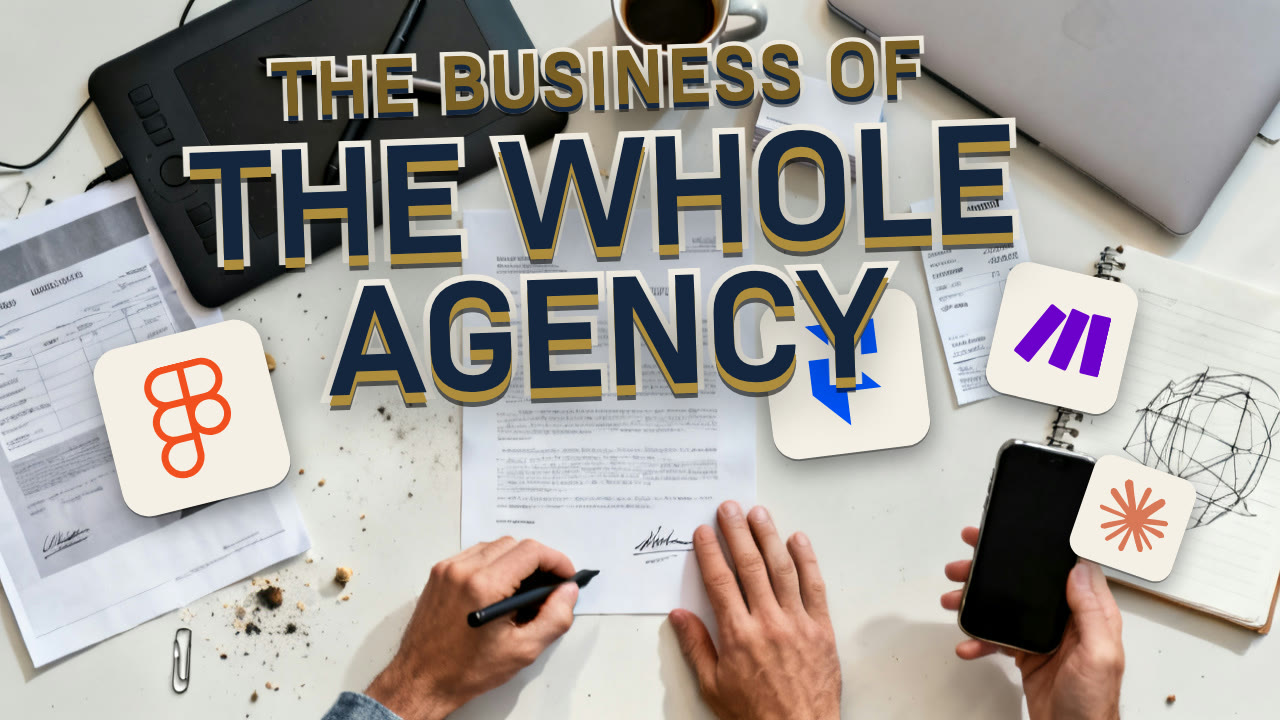
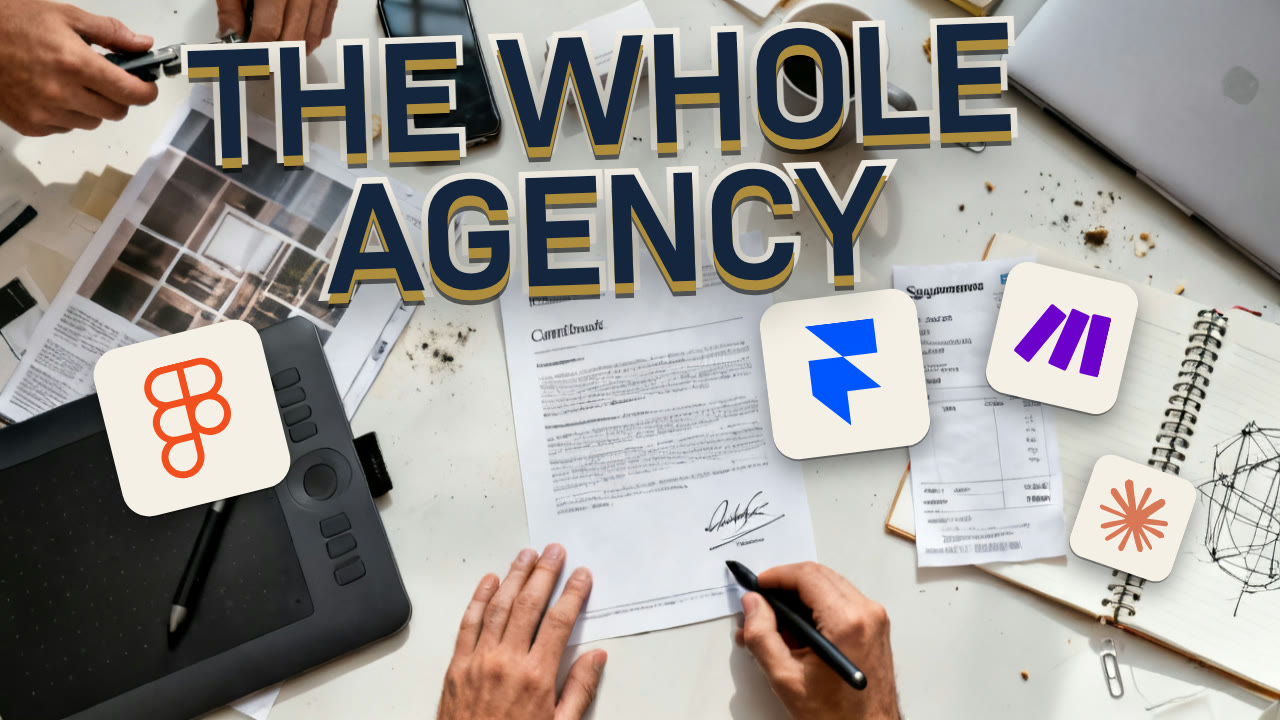
generate_scene: stop shooting every flat-lay from the same camera
Manav: "why do all of them have the same background image and angle?" Because
CONSTRAINTS_FLATLAY hardcoded one shot -- straight down, two hands from the
bottom edge, phone in the left -- so nine episodes came back as the same
photograph with the props swapped. Similar design, identical image, which is the
opposite of the ask.

Six framings now, and the invariants stay fixed in the tail: dense to every edge,
a human in frame, bare patches left for the marks. What varies is the camera
(straight down, high three-quarter, rotated diagonal, low and shallow, cropped
tight with no table edge, off-axis), which hands enter and from where, and the
crop. Picked with crc32 of the slug so an episode keeps its shot across re-runs
and --framing overrides. A character sum was tried first and clustered three of
nine onto one framing, which is the bug this exists to fix.

Also removed a filler of my own. The flatlay props defaulted `overline` to "THE
BUSINESS OF" whenever the spec produced no label, which put a constant on five of
nine thumbnails. Cleared -- a single tier is a legitimate composition, the photo
variant runs on one, and invented variety is worse than an absent tier. The four
real overlines the spec did write are kept: THE WHOLE STACK, STILL BY HAND, STILL
A BUSINESS, SO FAR.

Nine re-rendered, 9/9 pass the checker, review copies refreshed.

ON THE LOST GROUND, since it is a worked example of the gap flagged in
[…]

diff --git a/studio/scripts/originate/generate_scene.py b/studio/scripts/originate/generate_scene.py
@@ -44,6 +44,7 @@ import sys
 import tempfile
 import urllib.error
 import urllib.request
+import zlib
 from pathlib import Path
 
 ROOT = Path(__file__).resolve().parents[2]          # studio/
@@ -186,20 +187,61 @@ CONSTRAINTS_SCENE = (
 # Mrs Fields, Famous Amos and a Crumbl box; ours are the episode's actual stack,
 # composited by fetch_logos.py rather than generated, since diffusion garbles
 # lettering. The scene must therefore leave surface FOR them.
-CONSTRAINTS_FLATLAY = (
-    " Shot straight down from directly overhead, flat-lay. TWO HANDS enter from "
-    "the bottom edge of the frame, one holding a phone upright with a blank dark "
-    "screen, the other reaching in mid-action toward the objects. The surface is "
-    "crowded to every edge and objects are cut off by all four frame edges, "
-    "rotated at loose angles, overlapping each other, casually placed rather "
-    "than arranged. Leave two or three empty patches of bare surface among the "
-    "objects, each roughly a hand's width. Real mess: crumbs, dust, a stray "
-    "paper clip, marks on the surface. Every surface is bare and unlabelled — no "
-    "signage, no printed text, no packaging copy, no screens showing anything. "
-    "Bright even overhead daylight, clean true-to-life colour, strong material "
-    "texture. Photographed, not rendered: no studio sweep, no seamless backdrop, "
-    "no gradient background, nothing centred or symmetrical."
+# The framing was hardcoded to one shot -- straight down, two hands from the
+# bottom edge, phone in the left -- so every flat-lay in the set came back as the
+# same photograph with the props swapped. Similar design, identical image.
+#
+# These are the variations that all still satisfy the invariants: dense to every
+# edge, a human in frame, bare patches left for the marks. What varies is the
+# camera, which hands enter and from where, and how tight the crop is. Chosen
+# deterministically from the slug so an episode keeps its framing across
+# re-runs, and overridable with --framing.
+FLATLAY_FRAMINGS = [
+    "Shot straight down from directly overhead. Two hands enter from the bottom "
+    "edge, one holding a phone upright with a blank dark screen, the other "
+    "reaching in mid-action.",
+
+    "Shot from a high three-quarter angle looking down and across the surface, "
+    "the far edge of the table and a slice of the room visible along the top of "
+    "the frame. One hand enters from the right edge mid-task.",
+
+    "Shot straight down but rotated, so the surface and everything on it runs "
+    "diagonally across the frame. One forearm crosses in from the lower-left "
+    "corner; the other hand steadies an object near the right edge.",
+
+    "Shot low and close over the surface at a shallow angle, almost at the level "
+    "of the objects, the far background falling soft. Two hands work in the near "
+    "third of the frame.",
+
+    "Shot straight down and cropped tight into the middle of the work so no edge "
+    "of the table is visible anywhere. Hands enter from the left edge and the "
+    "bottom, overlapping the objects.",
+
+    "Shot from overhead and slightly off-axis, the surface filling the frame at a "
+    "gentle tilt. One hand enters from the top-left holding a tool mid-use, a "
+    "phone lying face-up among the objects.",
+]
+
+CONSTRAINTS_FLATLAY_TAIL = (
+    " The surface is crowded to every edge and objects are cut off by all four "
+    "frame edges, rotated at loose angles, overlapping each other, casually "
+    "placed rather than arranged. Leave two or three empty patches of bare "
+    "surface among the objects, each roughly a hand's width. Real mess: crumbs, "
+    "dust, a stray paper clip, marks on the surface. Every surface is bare and "
+    "unlabelled — no signage, no printed text, no packaging copy, no screens "
+    "showing anything. Bright even daylight, clean true-to-life colour, strong "
+    "material texture. Photographed, not rendered: no studio sweep, no seamless "
+    "backdrop, no gradient background, nothing centred or symmetrical."
 )
+
+
+def flatlay_constraints(slug: str, framing: int | None) -> str:
+    # crc32 rather than a character sum: the sum clustered three of nine
+    # episodes onto the same framing, which is the problem this exists to fix.
+    i = framing if framing is not None else (
+        zlib.crc32(slug.encode()) % len(FLATLAY_FRAMINGS))
+    return " " + FLATLAY_FRAMINGS[i] + CONSTRAINTS_FLATLAY_TAIL
+
 
 # Archetypes are defined in thumbnail_spec.py; this maps each to the block that
 # can actually render it. Keep in step if that list changes.
@@ -209,7 +251,6 @@ ARCHETYPE_CONSTRAINTS = {
     "product":      CONSTRAINTS_OBJECT,
     "verdict":      CONSTRAINTS_SCENE,
     "scene-wide":   CONSTRAINTS_SCENE,
-    "flatlay":      CONSTRAINTS_FLATLAY,
 }
 
 
@@ -298,6 +339,10 @@ def main() -> int:
     ap.add_argument("--archetype", choices=sorted(ARCHETYPE_CONSTRAINTS),
                     help="which constraint block to use; inferred from the spec "
                          "when --scene is not given")
+    ap.add_argument("--framing", type=int,
+                    help=f"flatlay only: which of the {len(FLATLAY_FRAMINGS)} "
+                         f"camera framings to use. Defaults to one picked from "
+                         f"the slug, so an episode keeps its shot across re-runs.")
     ap.add_argument("--tag",
                     help="name the output thumbs/<slug>-<tag>.png instead of "
                          "-a/-b/-c. Required when generating several variants "
@@ -320,13 +365,18 @@ def main() -> int:
         else:
             scene = scene_from_script(a.slug)
 
+    if archetype == "flatlay":
+        pass
     if not archetype:
         raise SystemExit(
             "cannot tell what kind of frame this is. Pass --archetype "
             f"({'|'.join(sorted(ARCHETYPE_CONSTRAINTS))}), or run "
             f"thumbnail_spec.py on {a.slug} first so the archetype comes with "
             "the scene. Guessing here produces a person in a barber chair.")
-    constraints = ARCHETYPE_CONSTRAINTS[archetype]
+    if archetype == "flatlay":
+        constraints = flatlay_constraints(a.slug, a.framing)
+    else:
+        constraints = ARCHETYPE_CONSTRAINTS[archetype]
     prompt = PREAMBLE + scene.rstrip(".") + "." + constraints
 
     print(f"{a.slug} — {a.model} — {archetype}")
